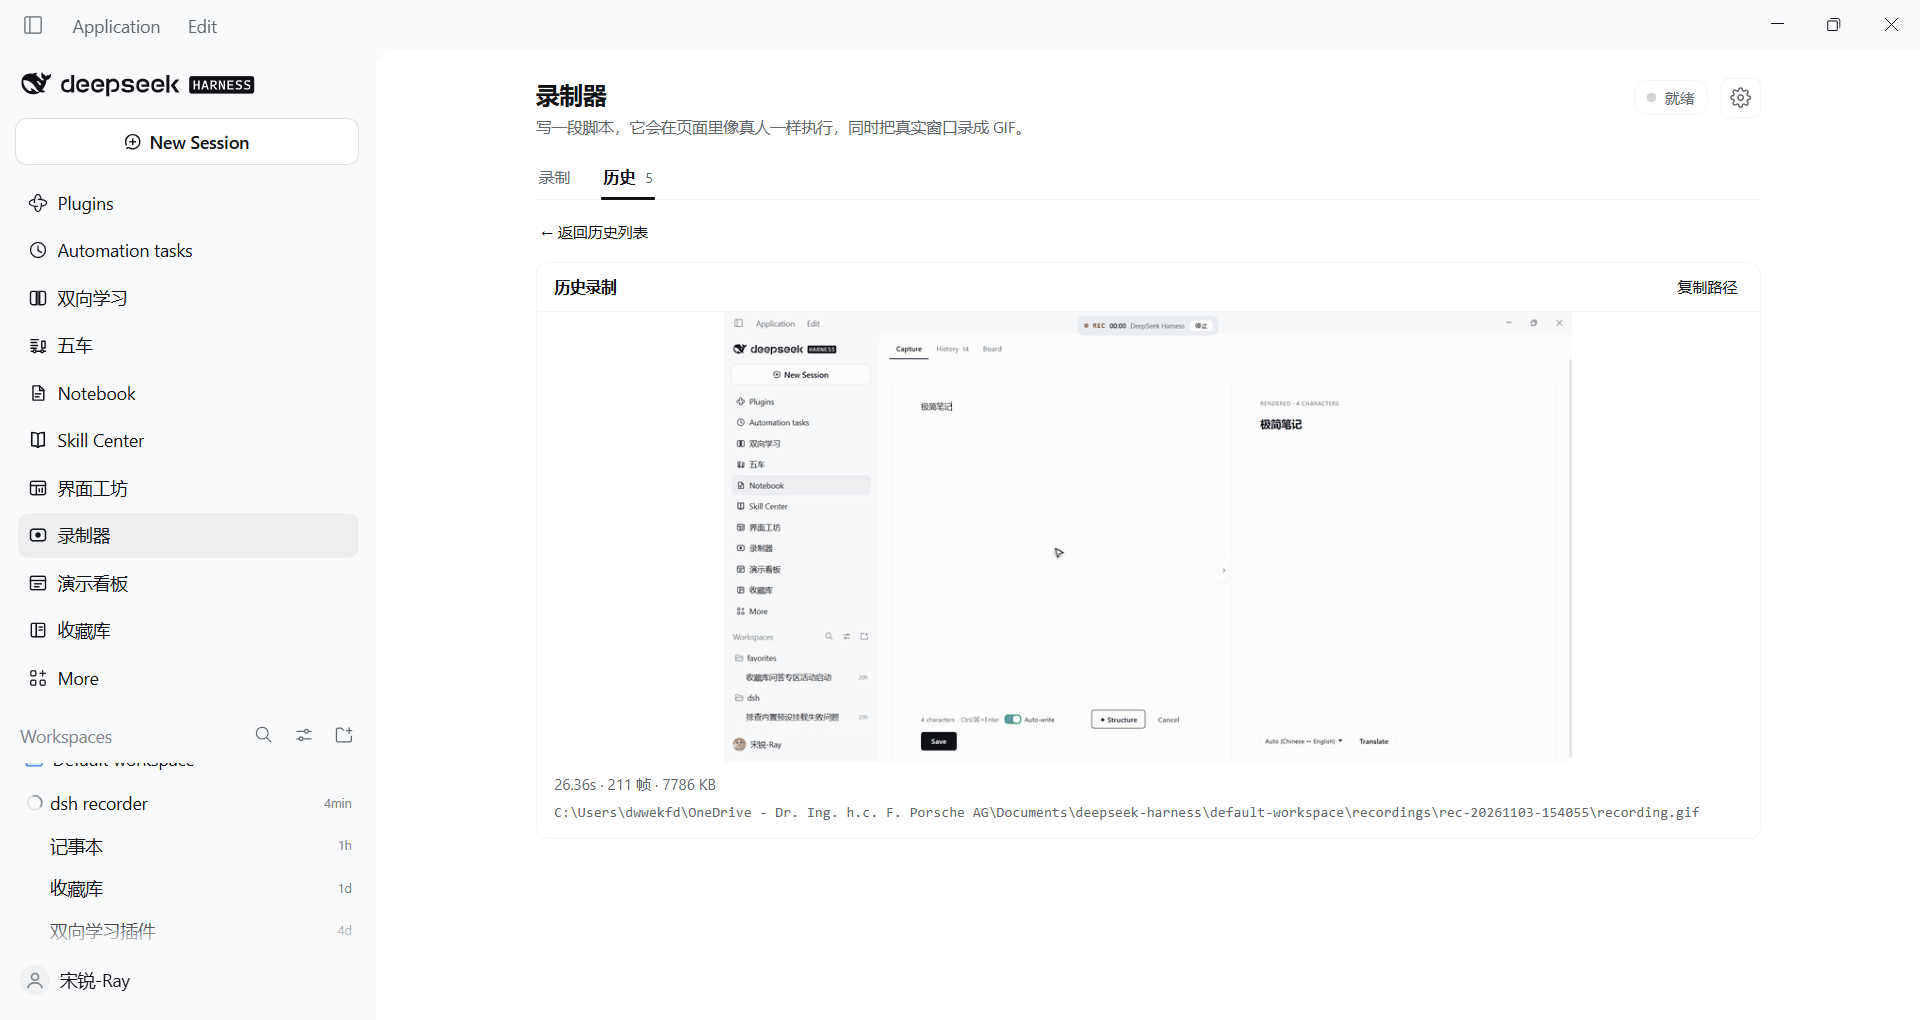
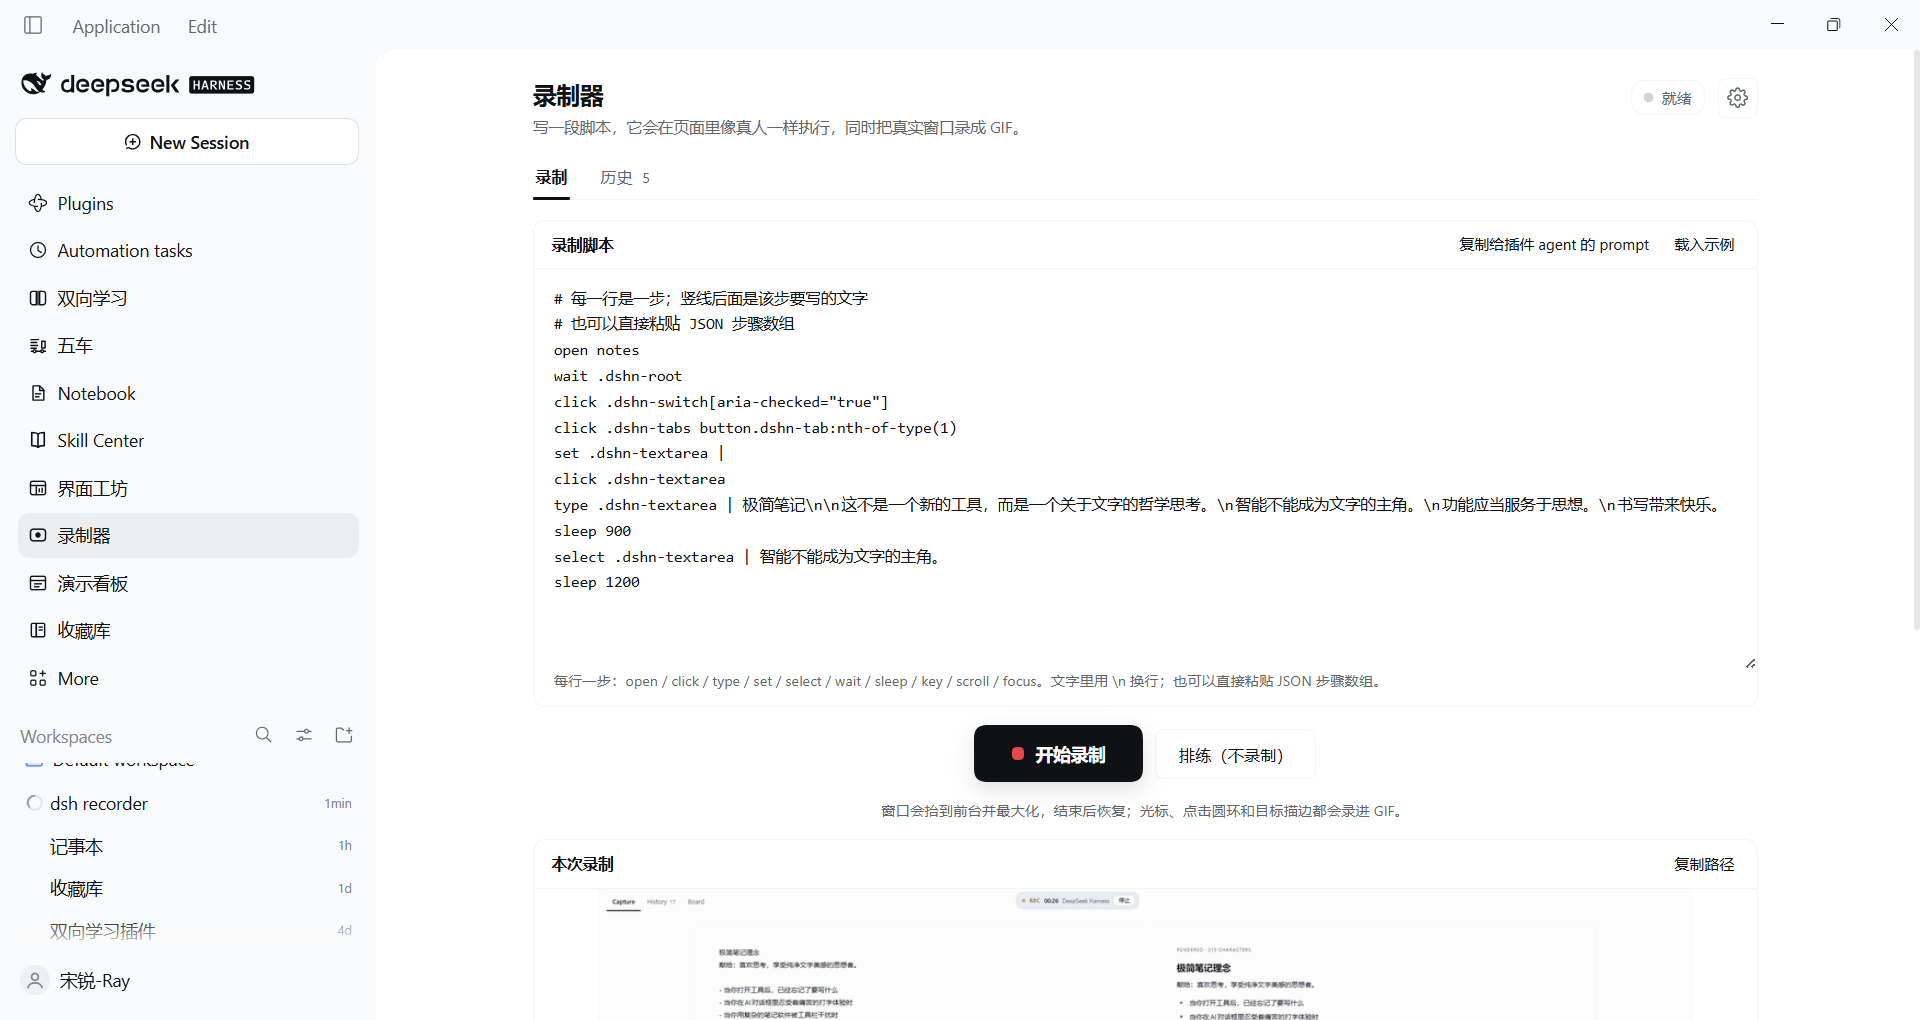
recorder panel: larger previews and a full-size lightbox
The result preview is now 520px tall with a ⤢ 全尺寸 badge; clicking it opens a dark lightbox at up to 96vw/88vh with a close button and backdrop-to-close. Applies to both 本次录制 and 历史录制. Close button sits below the title-bar drag strip.

diff --git a/client.js b/client.js
@@ -993,8 +993,9 @@ sleep 1200`
       )
     }
 
-    function resultCard(result, onCopy, title = '录制结果') {
+    function resultCard(result, onCopy, title = '录制结果', onPreview = null) {
       const log = Array.isArray(result?.walk?.log) ? result.walk.log : []
+      const shot = h('img', { className: 'dshr-shot', src: assetUrl(result?.gif), alt: 'recording' })
       return h(
         'section',
         { className: 'dshr-card' },
@@ -1004,7 +1005,14 @@ sleep 1200`
           h('span', { className: 'dshr-card-title' }, title),
           h('button', { className: 'dshr-link', type: 'button', onClick: onCopy }, '复制路径'),
         ),
-        h('img', { className: 'dshr-shot', src: assetUrl(result?.gif), alt: 'recording' }),
+        onPreview !== null
+          ? h(
+              'button',
+              { className: 'dshr-shot-button', type: 'button', onClick: () => onPreview(result), title: '全尺寸查看', 'aria-label': '全尺寸查看' },
+              shot,
+              h('span', { className: 'dshr-shot-zoom' }, '⤢ 全尺寸'),
+            )
+          : shot,
         h('div', { className: 'dshr-meta' }, `${result?.seconds ?? '?'}s · ${result?.frames ?? '?'} 帧 · ${Math.round((Number(result?.bytes) || 0) / 1024)} KB`),
         result?.warning ? h('div', { className: 'dshr-warn' }, String(result.warning)) : null,
         h('code', { className: 'dshr-path' }, String(result?.gif ?? '')),
@@ -1086,6 +1094,7 @@ sleep 1200`
       const [tab, setTab] = useState('record')
       const [settingsOpen, setSettingsOpen] = useState(false)
       const [historyPick, setHistoryPick] = useState(null)
+      const [preview, setPreview] = useState(null)
       const [script, setScript] = useState(readDraft)
       const [fps, setFps] = useState(6)
       const [width, setWidth] = useState(1000)
@@ -1414,7 +1423,7 @@ sleep 1200`
         error !== '' ? h('div', { className: 'dshr-error' }, error) : null,
         rehearsal !== null ? rehearsalCard(rehearsal) : null,
         result !== null
-          ? resultCard(result, () => void copyPath(result.gif), '本次录制')
+          ? resultCard(result, () => void copyPath(result.gif), '本次录制', (item) => setPreview(item))
           : emptyCard('还没有录制结果', '写好脚本，按「开始录制」，结果会显示在这里。'),
       )
 
@@ -1426,7 +1435,7 @@ sleep 1200`
               React.Fragment,
               null,
               h('button', { className: 'dshr-link dshr-back', type: 'button', onClick: () => setHistoryPick(null) }, '← 返回历史列表'),
-              resultCard(historyPick, () => void copyPath(historyPick.gif), '历史录制'),
+              resultCard(historyPick, () => void copyPath(historyPick.gif), '历史录制', (item) => setPreview(item)),
             )
           : recent.length === 0
             ? emptyCard('还没有录制', '录制一次之后，历史记录会出现在这里。')
@@ -1504,6 +1513,32 @@ sleep 1200`
         tabs,
         tab === 'record' ? home : history,
         settings,
+        preview !== null
+          ? h(
+              'div',
+              { className: 'dshr-lightbox', role: 'dialog', 'aria-modal': 'true', 'aria-label': '全尺寸预览', onClick: () => setPreview(null) },
+              h('img', {
+                className: 'dshr-lightbox-img',
+                src: assetUrl(preview.gif),
+                alt: 'full-size preview',
+                onClick: (event) => event.stopPropagation(),
+              }),
+              h(
+                'button',
+                {
+                  className: 'dshr-lightbox-close',
+                  type: 'button',
+                  'aria-label': '关闭全尺寸预览',
+                  onClick: (event) => {
+                    event.stopPropagation()
+                    setPreview(null)
+                  },
+                },
+                '✕',
+              ),
+              h('span', { className: 'dshr-lightbox-meta' }, `${preview.name ?? (tab === 'record' ? '本次录制' : '历史录制')} · ${preview.seconds ?? '?'}s · 点击空白处或 ✕ 关闭`),
+            )
+          : null,
       )
     }
 
@@ -1640,7 +1675,15 @@ sleep 1200`
 .dshr-secondary:disabled { opacity: .45; cursor: default; }
 .dshr-note { font-size: 11.5px; color: var(--dsw-alias-label-secondary); }
 .dshr-error { font-size: 12.5px; line-height: 1.5; color: var(--dsw-alias-state-error-primary); padding: 9px 12px; border: 1px solid var(--dsw-alias-state-error-primary); border-radius: 9px; background: var(--dsw-alias-bg-layer-1); }
-.dshr-shot { display: block; width: 100%; max-height: 360px; object-fit: contain; background: var(--dsw-alias-bg-base); }
+.dshr-shot { display: block; width: 100%; max-height: 520px; object-fit: contain; background: var(--dsw-alias-bg-base); }
+.dshr-shot-button { position: relative; display: block; width: 100%; padding: 0; border: 0; background: transparent; cursor: zoom-in; }
+.dshr-shot-button:hover .dshr-shot { filter: brightness(.97); }
+.dshr-shot-zoom { position: absolute; right: 10px; bottom: 10px; padding: 4px 9px; border-radius: 999px; background: rgba(0,0,0,.55); color: #fff; font-size: 11px; line-height: 1.2; pointer-events: none; }
+.dshr-lightbox { position: fixed; inset: 0; z-index: 200; display: flex; align-items: center; justify-content: center; padding: 24px; background: rgba(0,0,0,.84); cursor: zoom-out; }
+.dshr-lightbox-img { display: block; max-width: 96vw; max-height: 88vh; width: auto; height: auto; border-radius: 8px; box-shadow: 0 20px 60px rgba(0,0,0,.5); background: #fff; cursor: default; }
+.dshr-lightbox-close { position: fixed; top: 56px; right: 22px; width: 36px; height: 36px; padding: 0; border: 0; border-radius: 50%; background: rgba(255,255,255,.16); color: #fff; font-size: 15px; line-height: 1; cursor: pointer; }
+.dshr-lightbox-close:hover { background: rgba(255,255,255,.28); }
+.dshr-lightbox-meta { position: fixed; bottom: 16px; left: 50%; transform: translateX(-50%); color: rgba(255,255,255,.78); font-size: 12px; font-variant-numeric: tabular-nums; }
 .dshr-meta { padding: 10px 14px 0; font-size: 12px; color: var(--dsw-alias-label-secondary); font-variant-numeric: tabular-nums; }
 .dshr-warn { padding: 6px 14px 0; font-size: 12px; line-height: 1.5; color: var(--dsw-alias-state-warn-primary); }
 .dshr-path { display: block; margin: 6px 14px 12px; font: 11.5px/1.5 ui-monospace, Consolas, monospace; color: var(--dsw-alias-label-secondary); word-break: break-all; }

diff --git a/README.md b/README.md
@@ -27,7 +27,9 @@ Sidebar → 「录制器」 opens a page with two tabs.
 | 录制脚本 | The script, front and centre. JSON steps or one step per line (see below); kept in `localStorage` between visits. |
 | 复制给插件 agent 的 prompt | One click copies a self-contained prompt (the full spec + what to output). Paste it into the agent that owns the plugin, describe the demo, and it returns a script you paste back. `载入示例` restores the notes walk that the verified GIF came from. |
 | 开始录制 | The primary action, a large button under the editor. `排练（不录制）` runs the same steps without recording (real clicks, no video); `停止` ends early. A rehearsal brings the window forward first — a background window throttles the page's timers and would freeze the walk. |
-| 本次录制 | The result of this run: the GIF inline, its length/frames/size, the path, and the per-step log. |
+| 本次录制 | The result of this run: a large GIF preview (click it for a full-size lightbox), its length/frames/size, the path, and the per-step log. |
+
+![Full-size preview](docs/panel-preview.png)
 
 **⚙ 设置** (top right) opens a popover with the parameters — they are no longer mixed into the main
 page:
@@ -40,7 +42,8 @@ page:
 ![Settings](docs/panel-settings.png)
 
 **历史** — a grid of past recordings of the selected workspace (thumbnail, name, length, frames,
-size). Click a card to open it with the GIF, meta, path and copy button.
+size). Click a card to open it with the GIF, meta, path and copy button. Click the preview (the
+`⤢ 全尺寸` badge) to open the full-size lightbox; click the backdrop or ✕ to close.
 
 ![History](docs/panel-history.png)
 
